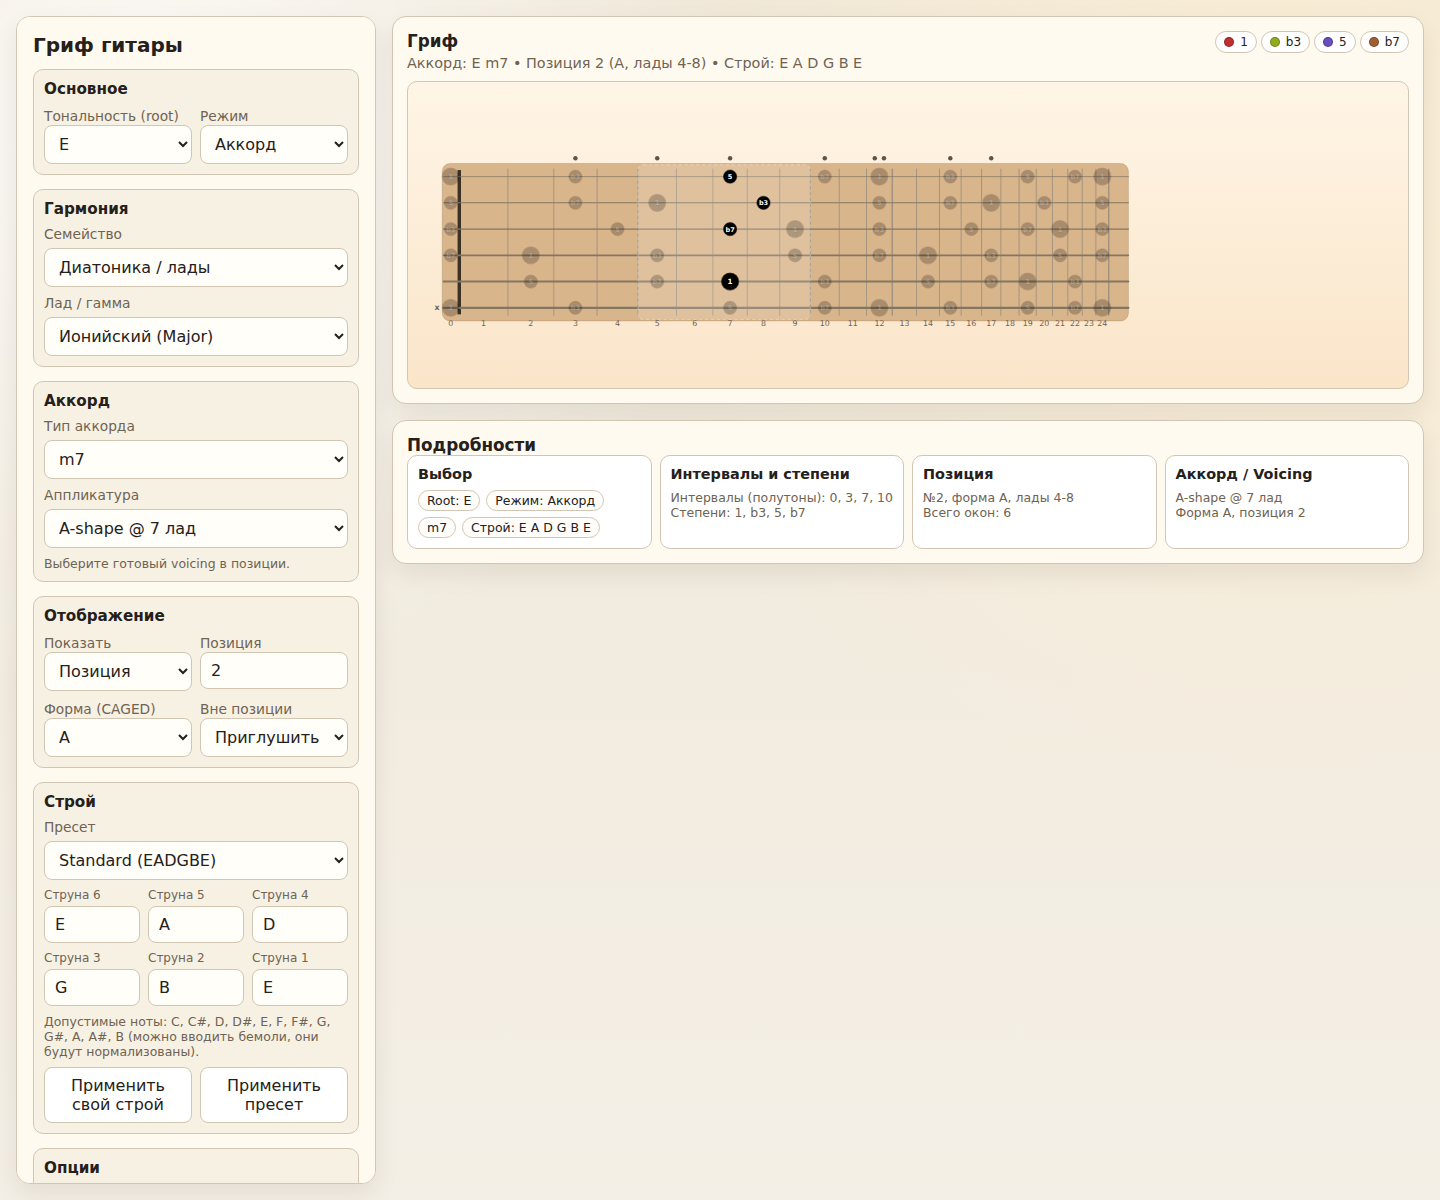
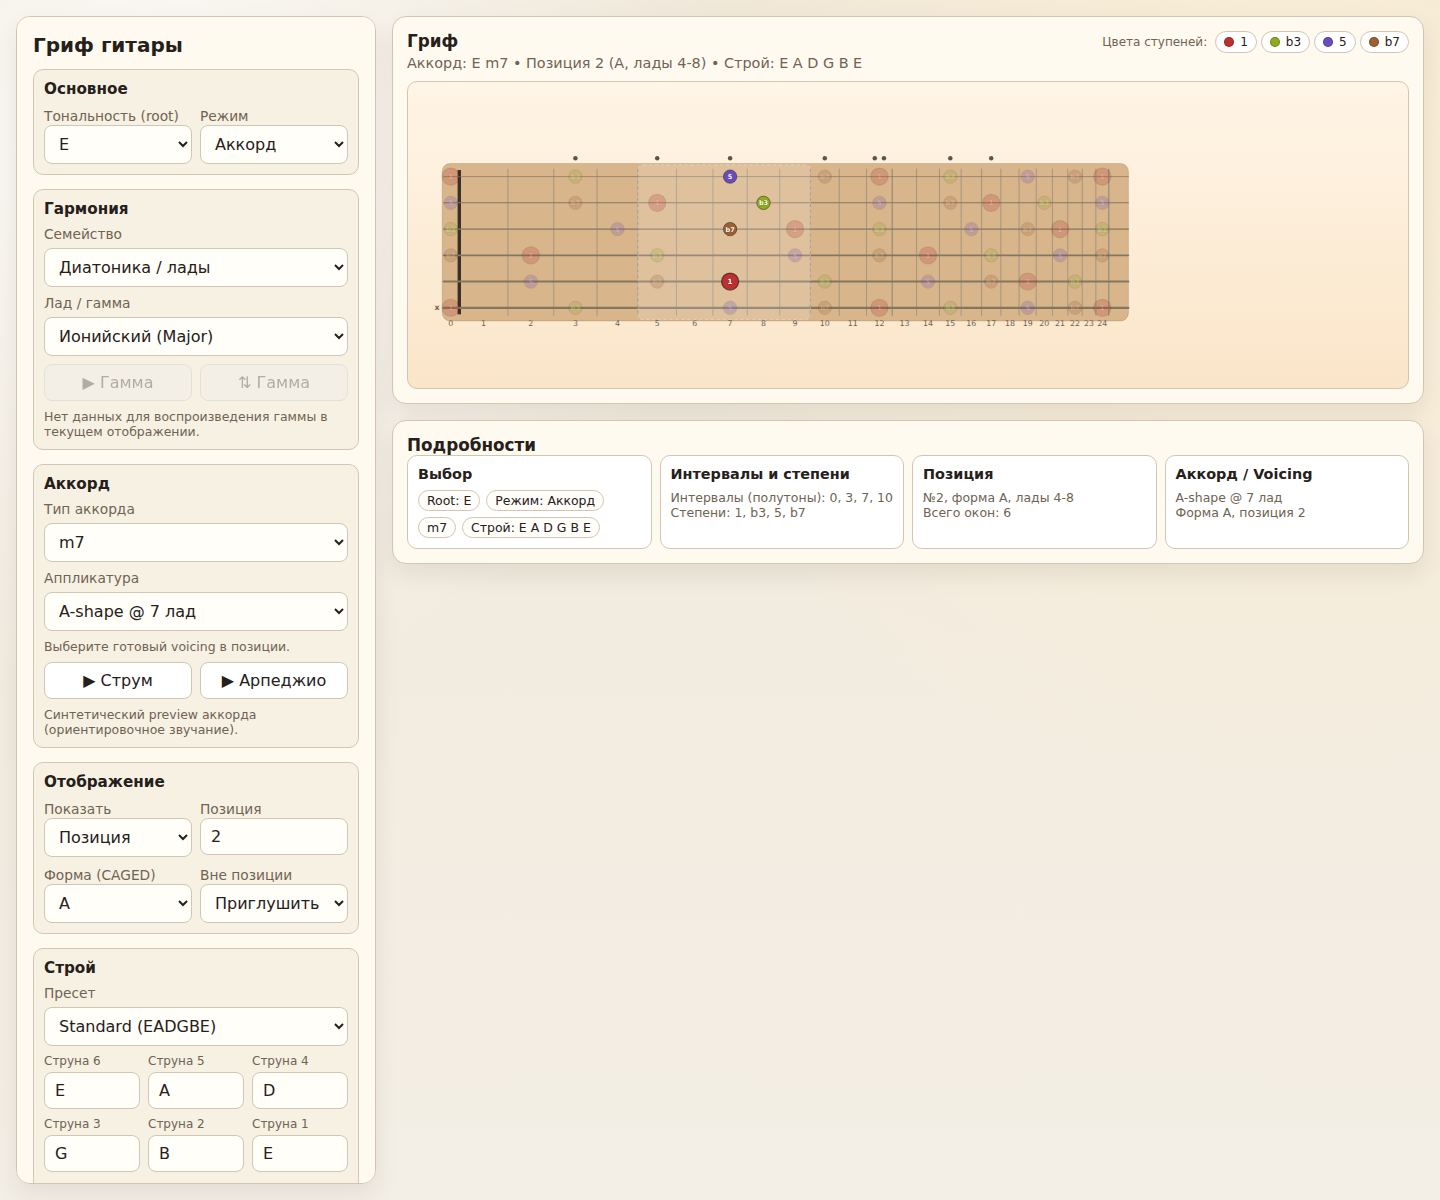
Refresh README demo screenshot and improve scale audio UX

diff --git a/src/main.js b/src/main.js
@@ -8,7 +8,7 @@ import { getTuningPresetById } from "./music/tunings.js";
 import {
   buildAudioNotesFromFallback,
   buildAudioNotesFromVoicing,
-  buildAudioScaleNotes,
+  buildAudioScaleNotesFromIntervals,
   isAudioPreviewSupported,
   playChordPreview,
   playScalePreview,
@@ -192,12 +192,7 @@ function buildDerived(state) {
   }));
 
   if (state.harmonyMode === "scale") {
-    scaleAudioNotes = buildAudioScaleNotes(withWindowFlag, state.tuning, {
-      inWindowOnly: Boolean(activePositionWindow),
-    });
-    if (!scaleAudioNotes.length) {
-      scaleAudioNotes = buildAudioScaleNotes(withWindowFlag, state.tuning, { inWindowOnly: false });
-    }
+    scaleAudioNotes = buildAudioScaleNotesFromIntervals(state.rootNote, selection.intervals);
   }
 
   if (state.harmonyMode === "chord") {
@@ -230,6 +225,9 @@ function buildDerived(state) {
     canPlayChordPreview: state.harmonyMode === "chord" && chordAudioNotes.length > 0 && isAudioPreviewSupported(),
     canPlayScalePreview: state.harmonyMode === "scale" && scaleAudioNotes.length > 0 && isAudioPreviewSupported(),
     audioPreviewSupported: isAudioPreviewSupported(),
+    audioPreviewSummary: state.harmonyMode === "scale"
+      ? `${state.rootNote} ${selectionDef.label} (1 октава вверх)`
+      : null,
   };
 }
 
@@ -288,6 +286,7 @@ function renderApp() {
     canPlayChordPreview: derived.canPlayChordPreview,
     canPlayScalePreview: derived.canPlayScalePreview,
     audioPreviewSupported: derived.audioPreviewSupported,
+    audioPreviewSummary: derived.audioPreviewSummary,
   }, handleControlAction);
 
   dom.selectionSummary.textContent = getSummaryText(state, derived);
@@ -403,6 +402,16 @@ function handleControlAction(action) {
     const derived = buildDerived(nextState);
     if (!derived.canPlayScalePreview) return;
     playScalePreview(derived.scaleAudioNotes).catch(() => {
+      // Keep UI silent on audio errors; browser support varies.
+    });
+    return;
+  }
+
+  if (action.type === "play-scale-preview-bounce") {
+    const nextState = store.getState();
+    const derived = buildDerived(nextState);
+    if (!derived.canPlayScalePreview) return;
+    playScalePreview(derived.scaleAudioNotes, { bounce: true }).catch(() => {
       // Keep UI silent on audio errors; browser support varies.
     });
     return;

diff --git a/src/ui/controls.js b/src/ui/controls.js
@@ -84,18 +84,20 @@ export function renderControls(container, state, derived, onAction) {
         <label for="scaleId">Лад / гамма</label>
         <select id="scaleId" name="scaleId">${scaleOptions}</select>
       </div>
-      <div class="field-row">
+      <div class="field-row inline-2">
         <button type="button" data-action="play-scale-preview" ${canPlayScalePreview ? "" : "disabled"}>▶ Гамма</button>
+        <button type="button" data-action="play-scale-preview-bounce" ${canPlayScalePreview ? "" : "disabled"}>⇅ Гамма</button>
       </div>
       <div class="helper-text">
         ${
           audioUnsupported
             ? "Аудио-preview недоступен: браузер не поддерживает Web Audio API."
             : (canPlayScalePreview
-              ? "Синтетический preview выбранной гаммы (по возрастанию)."
+              ? "▶ Гамма — вверх, ⇅ Гамма — вверх-вниз."
               : "Нет данных для воспроизведения гаммы в текущем отображении.")
         }
       </div>
+      ${derived.audioPreviewSummary ? `<div class="helper-text">Играется: ${derived.audioPreviewSummary}</div>` : ""}
     </div>
 
     <div class="field-group" data-section="chord" ${state.harmonyMode !== "chord" ? "hidden" : ""}>
@@ -220,12 +222,15 @@ export function renderControls(container, state, derived, onAction) {
 }
 
 export function renderLegend(container, legendEntries) {
-  container.innerHTML = legendEntries.map((entry) => `
-    <span class="legend-chip">
+  container.innerHTML = `
+    <span class="legend-caption" title="Цвета ступеней на грифе">Цвета ступеней:</span>
+    ${legendEntries.map((entry) => `
+    <span class="legend-chip" title="Ступень ${entry.degree}">
       <span class="legend-swatch" style="background:${entry.colorVar}"></span>
       <span>${entry.degree}</span>
     </span>
-  `).join("");
+  `).join("")}
+  `;
 }
 
 export function renderDetails(container, data) {

diff --git a/src/audio/chord-preview.js b/src/audio/chord-preview.js
@@ -162,6 +162,38 @@ export function buildAudioScaleNotes(fretNotes, tuning6to1, { inWindowOnly = fal
   return deduped;
 }
 
+function nearestMidiForPitchClassInRange(pc, { min = 48, max = 60, target = 55 } = {}) {
+  let best = null;
+  for (let midi = min; midi <= max; midi += 1) {
+    if (((midi % 12) + 12) % 12 !== pc) continue;
+    const score = Math.abs(midi - target);
+    if (!best || score < best.score) best = { midi, score };
+  }
+  return best?.midi ?? target;
+}
+
+export function buildAudioScaleNotesFromIntervals(rootNote, intervals) {
+  const rootPc = noteToPitchClass(rootNote);
+  if (rootPc == null || !Array.isArray(intervals) || intervals.length === 0) return [];
+
+  const baseMidi = nearestMidiForPitchClassInRange(rootPc, { min: 48, max: 60, target: 55 });
+  const uniqueIntervals = [...new Set(intervals.map((n) => ((n % 12) + 12) % 12))].sort((a, b) => a - b);
+  const ascending = uniqueIntervals.includes(0)
+    ? uniqueIntervals
+    : [0, ...uniqueIntervals];
+
+  const sequenceIntervals = [...ascending, 12];
+  return sequenceIntervals.map((interval) => {
+    const midi = baseMidi + interval;
+    return {
+      stringNumber: 0,
+      fret: null,
+      midi,
+      frequency: midiToFrequency(midi),
+    };
+  });
+}
+
 function scheduleVoice(ctx, note, startAt, durationSec, voiceGain) {
   const osc = ctx.createOscillator();
   const gain = ctx.createGain();

diff --git a/styles.css b/styles.css
@@ -141,6 +141,27 @@ button {
   cursor: pointer;
 }
 
+button:disabled,
+select:disabled,
+input:disabled {
+  opacity: 0.48;
+  cursor: not-allowed;
+  color: var(--muted);
+}
+
+button:disabled {
+  background: #f4eee2;
+  border-color: #d8cdbb;
+  box-shadow: none;
+  filter: saturate(0.45);
+}
+
+select:disabled,
+input:disabled {
+  background: #f5efe3;
+  border-color: #d8cdbb;
+}
+
 button.primary {
   background: var(--accent);
   border-color: var(--accent);
@@ -182,6 +203,13 @@ button.primary {
   justify-content: flex-end;
   gap: 4px;
   max-width: 420px;
+  align-items: center;
+}
+
+.legend-caption {
+  font-size: 0.75rem;
+  color: var(--muted);
+  margin-right: 4px;
 }
 
 .legend-chip {

diff --git a/src/render/colors.js b/src/render/colors.js
@@ -3,7 +3,7 @@ export function colorTokenForInterval(interval) {
 }
 
 export function cssColorForInterval(interval) {
-  return `var(${colorTokenForInterval(interval)})`;
+  return `var(--${colorTokenForInterval(interval)})`;
 }
 
 export function buildLegendEntries(intervals, degreeByInterval) {
